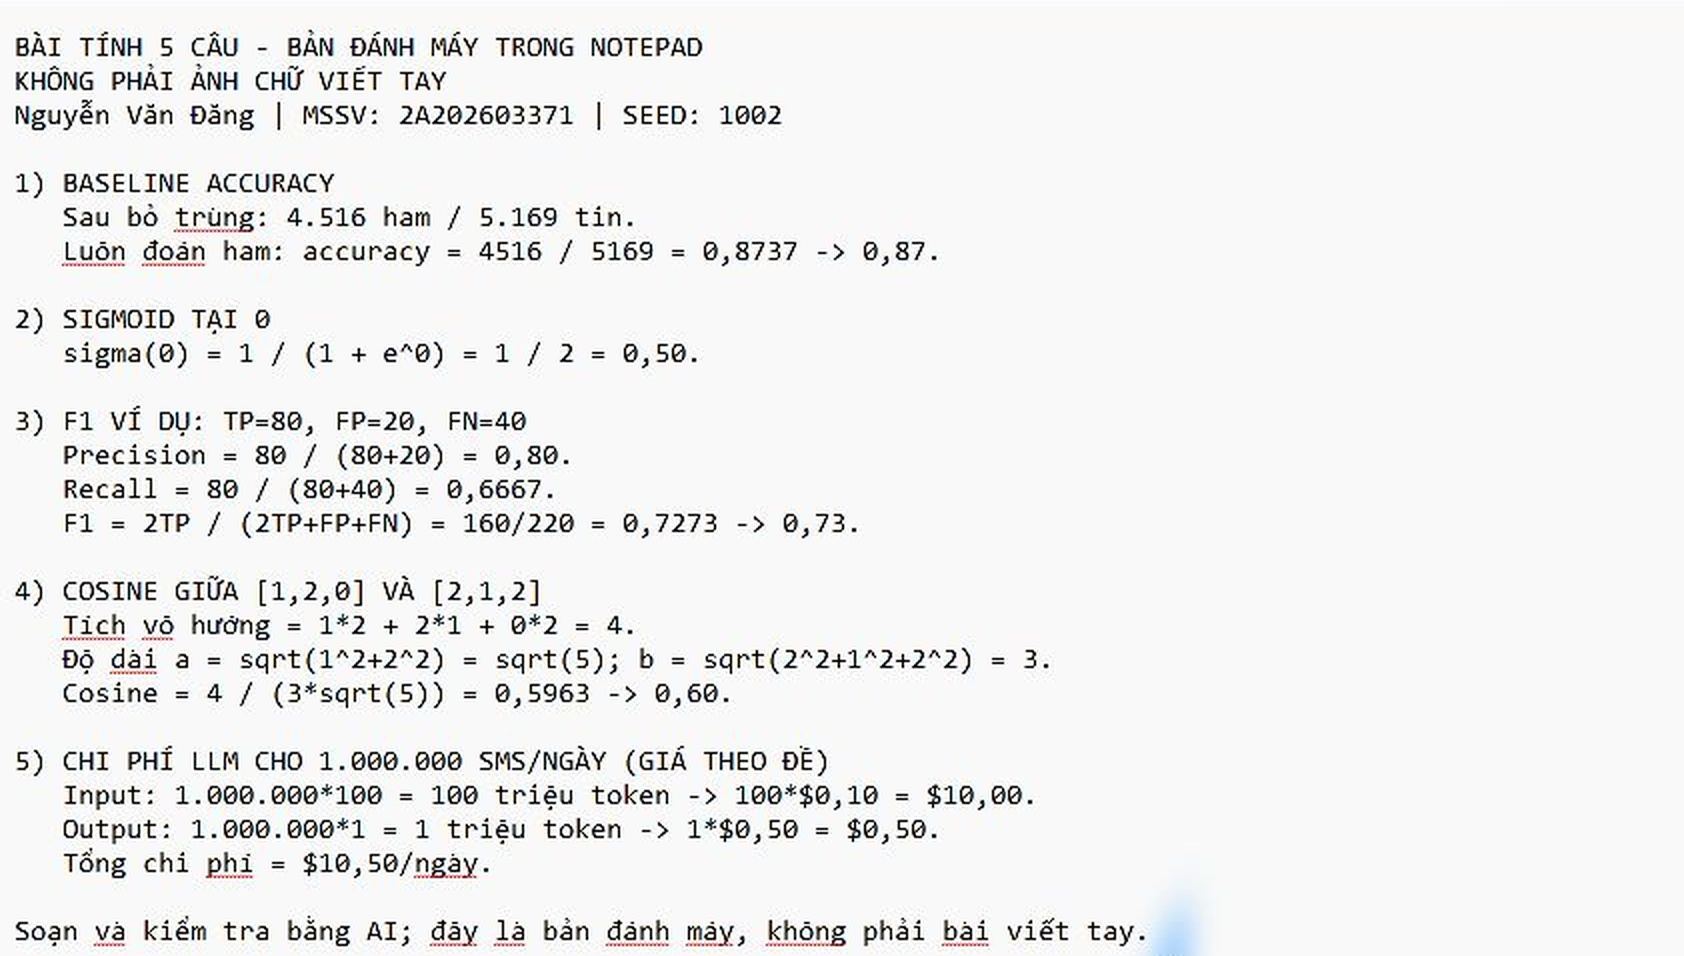
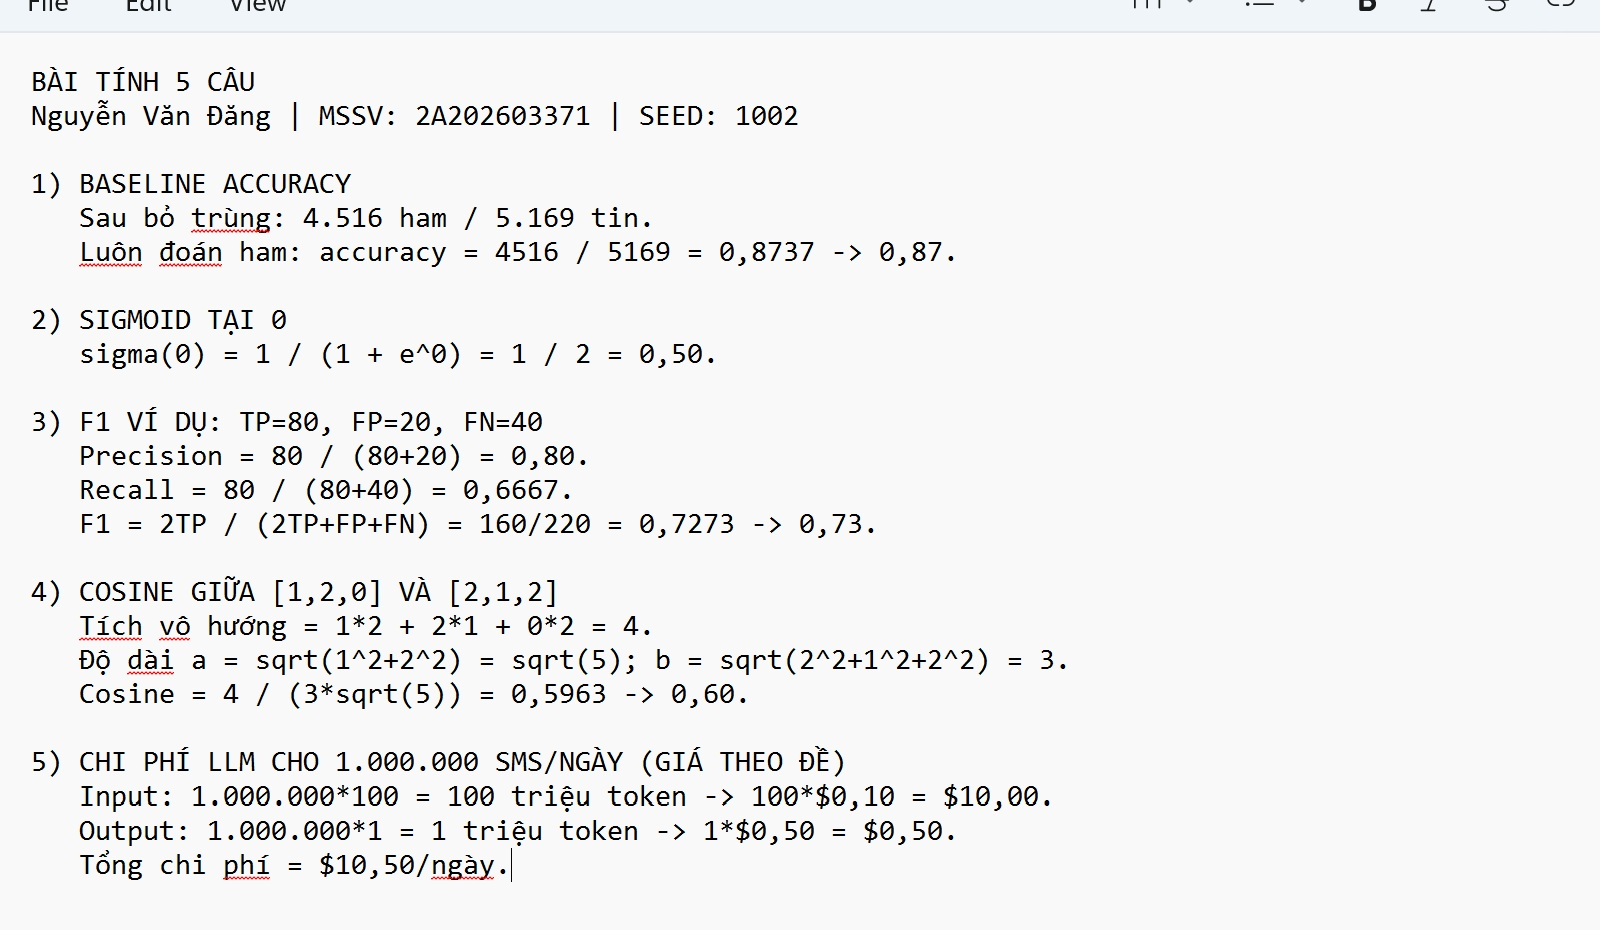
Save revised Notepad screenshot and attribution

diff --git a/report/individual/2A202603371_NguyenVanDang.md b/report/individual/2A202603371_NguyenVanDang.md
@@ -11,8 +11,8 @@
 |---|---|
 | [day01_lab.ipynb](day01_lab.ipynb) | Đã chạy và lưu output; 15/15 kiểm tra đạt |
 | [lab1_report.json](lab1_report.json) | Đã tạo; đủ 10 dự đoán và 8 phương án |
-| [hand_calc_notepad.txt](hand_calc_notepad.txt) | Bản tính được AI gõ trong Notepad |
-| [hand_calc.jpg](hand_calc.jpg) | Ảnh chụp bản đánh máy trong Notepad, **không phải chữ viết tay** |
+| [hand_calc_notepad.txt](hand_calc_notepad.txt) | AI chuẩn bị nội dung và bản gốc; học viên sửa tiêu đề, bỏ chú thích |
+| [hand_calc.jpg](hand_calc.jpg) | Học viên chụp lại Notepad, AI cắt ảnh để đúng tên tệp; **không phải chữ viết tay** |
 | [hand_calc_steps.md](hand_calc_steps.md) | Các bước tính do AI chuẩn bị |
 
 Ảnh `hand_calc.jpg` đáp ứng yêu cầu có tệp ảnh và thể hiện các bước tính, nhưng **không đáp ứng tiêu chí ảnh viết tay** trong rubric. Không sử dụng ảnh này để nhận là học viên đã tính tay.
@@ -64,7 +64,7 @@ Encoder+LogReg có F1 test cao nhất 0,980, p95 19,722 ms/tin dưới SLA 50 ms
 | Phần 0–3: ML, DL, embedding | Chưa có bằng chứng học viên tự viết mã hoặc tự giải thích | Viết các hàm TODO, điền dự đoán và lời giải thích, chạy notebook | Các ô kiểm tra đạt; kết quả và output có trong notebook |
 | Phần 4: LLM | Học viên cung cấp khóa API và hạn mức | Viết hàm API/prompt, chạy DeepSeek và phân tích kết quả | Có output gọi API thật, số đo trong JSON; khóa không lưu trong tệp |
 | Phần 5: so sánh, stress test, thử thách | Chưa có bằng chứng học viên tự làm các mục này | Viết mã thử thách, phân tích 50 case, soạn báo cáo | Đối chiếu bảng và output trong notebook |
-| Năm phép tính và ảnh | Học viên yêu cầu dùng Notepad và ảnh chụp | Tính, gõ trong Notepad, chụp ảnh `hand_calc.jpg` | Ảnh ghi rõ là bản đánh máy, không nhận là viết tay |
+| Năm phép tính và ảnh | Học viên yêu cầu dùng Notepad, sửa tiêu đề/chú thích và tự chụp ảnh mới | Tính và gõ bản đầu trong Notepad; cắt ảnh mới thành `hand_calc.jpg` | Ảnh thể hiện chữ gõ Notepad, không nhận là viết tay |
 | Side lab | Chưa có bằng chứng học viên tự lập trình | Viết `solution.py` và làm thí nghiệm temperature | 19/19 test mock đạt; phản hồi thô trong docs |
 
 **AI là tác giả của mã, dự đoán, các phép tính và nội dung phân tích trong lần nộp này.** Việc chạy test xác nhận mã hoạt động trong phạm vi kiểm tra; không chứng minh học viên đã tự viết hoặc hiểu bài.
